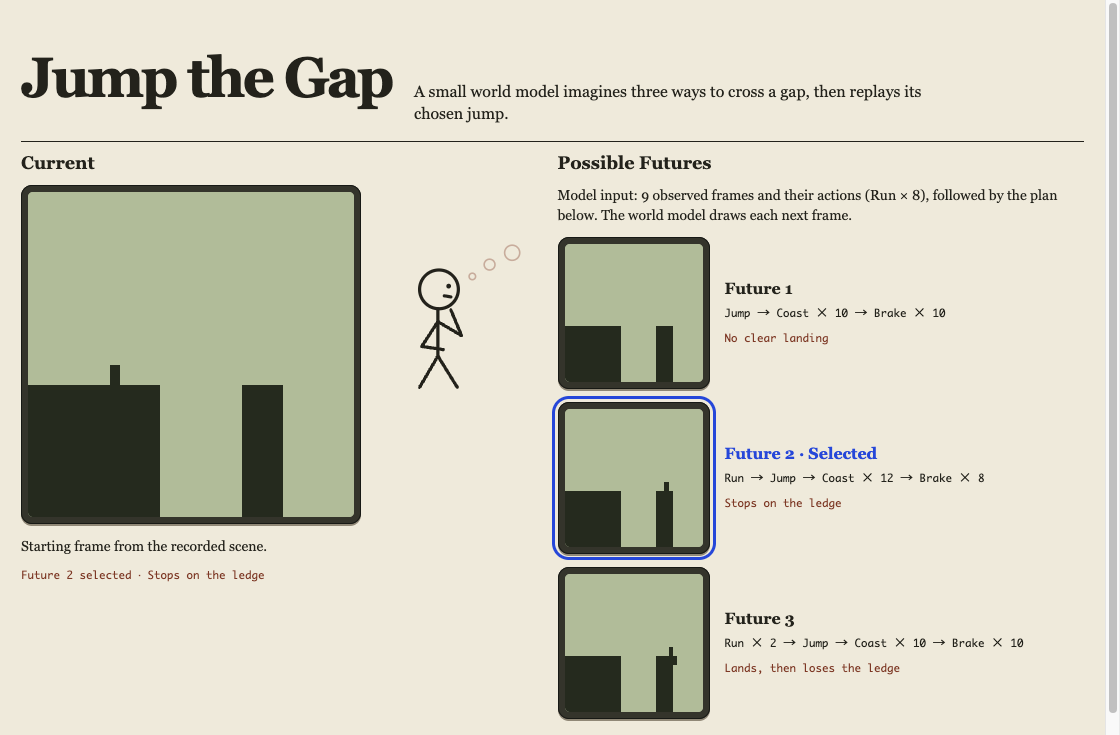
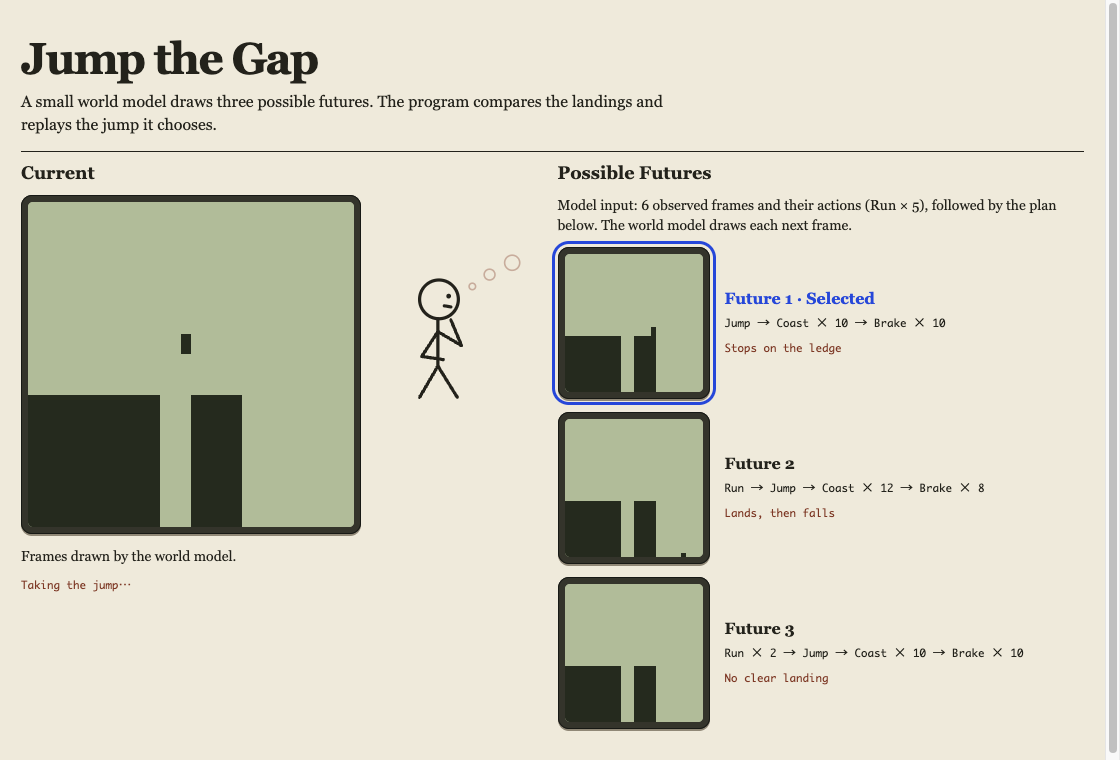
Stack the demo title and clarify who chooses the jump

diff --git a/web/style.css b/web/style.css
@@ -8,17 +8,10 @@
 * { box-sizing: border-box; }
 body { margin: 0; color: var(--ink); background: var(--paper); font-family: Georgia, serif; }
 main { width: min(1160px, 100% - 42px); margin: 35px auto; }
-header {
-  display: flex;
-  align-items: baseline;
-  flex-wrap: wrap;
-  gap: 6px 22px;
-  padding: 12px 0 15px;
-  border-bottom: 1px solid var(--ink);
-}
-.subtitle { max-width: 56ch; font-size: 16px; line-height: 1.4; }
+header { padding-bottom: 14px; border-bottom: 1px solid var(--ink); }
 h1, h2, h3, p { margin: 0; }
-h1 { font-size: clamp(36px, 5vw, 58px); line-height: 1.1; letter-spacing: -.045em; }
+h1 { font-size: clamp(30px, 4vw, 44px); line-height: 1.12; letter-spacing: -.035em; }
+.subtitle { max-width: 70ch; margin-top: 6px; font-size: 16px; line-height: 1.45; }
 #status, .plan, .outcome { font: 13px/1.5 ui-monospace, monospace; }
 #status { margin-top: 8px; color: var(--accent); }
 .workspace { display: grid; grid-template-columns: minmax(0, 1fr) minmax(85px, .45fr) minmax(0, 1.55fr); gap: 22px; margin-top: 10px; }

diff --git a/web/index.html b/web/index.html
@@ -9,7 +9,7 @@
   <main>
     <header>
       <h1>Jump the Gap</h1>
-      <p class="subtitle">A small world model imagines three ways to cross a gap, then replays its chosen jump.</p>
+      <p class="subtitle">A small world model draws three possible futures. The program compares the landings and replays the jump it chooses.</p>
     </header>
     <div class="workspace">
       <section class="current" aria-labelledby="current-heading">
